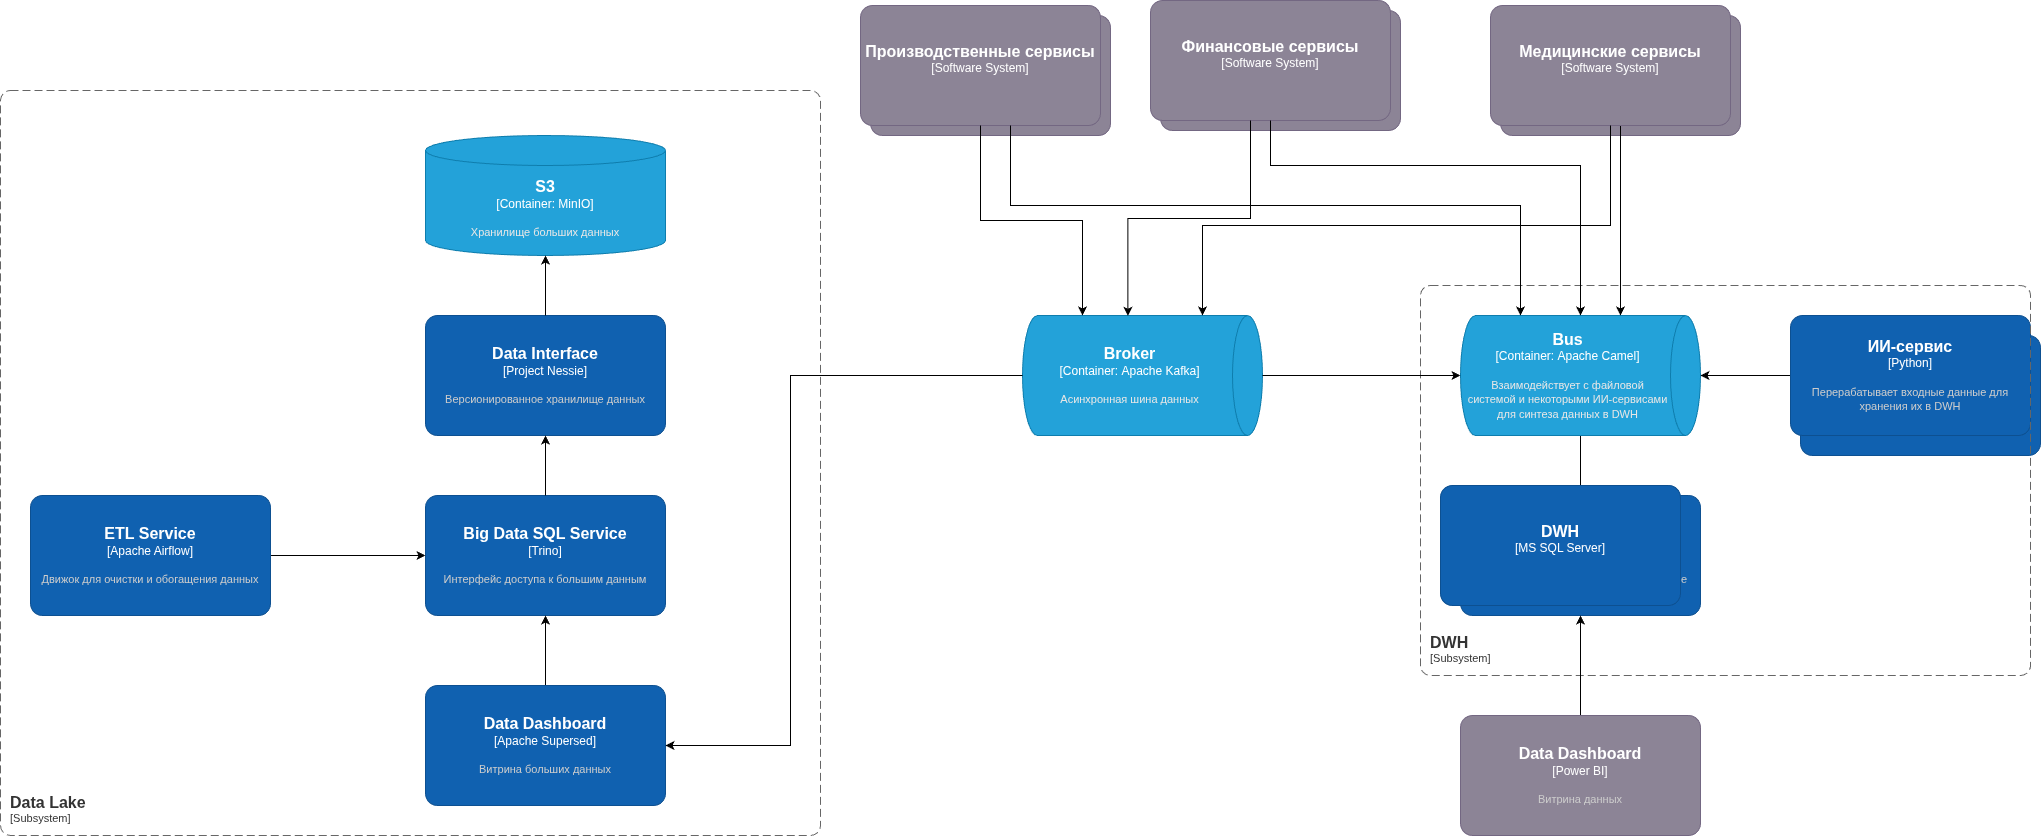
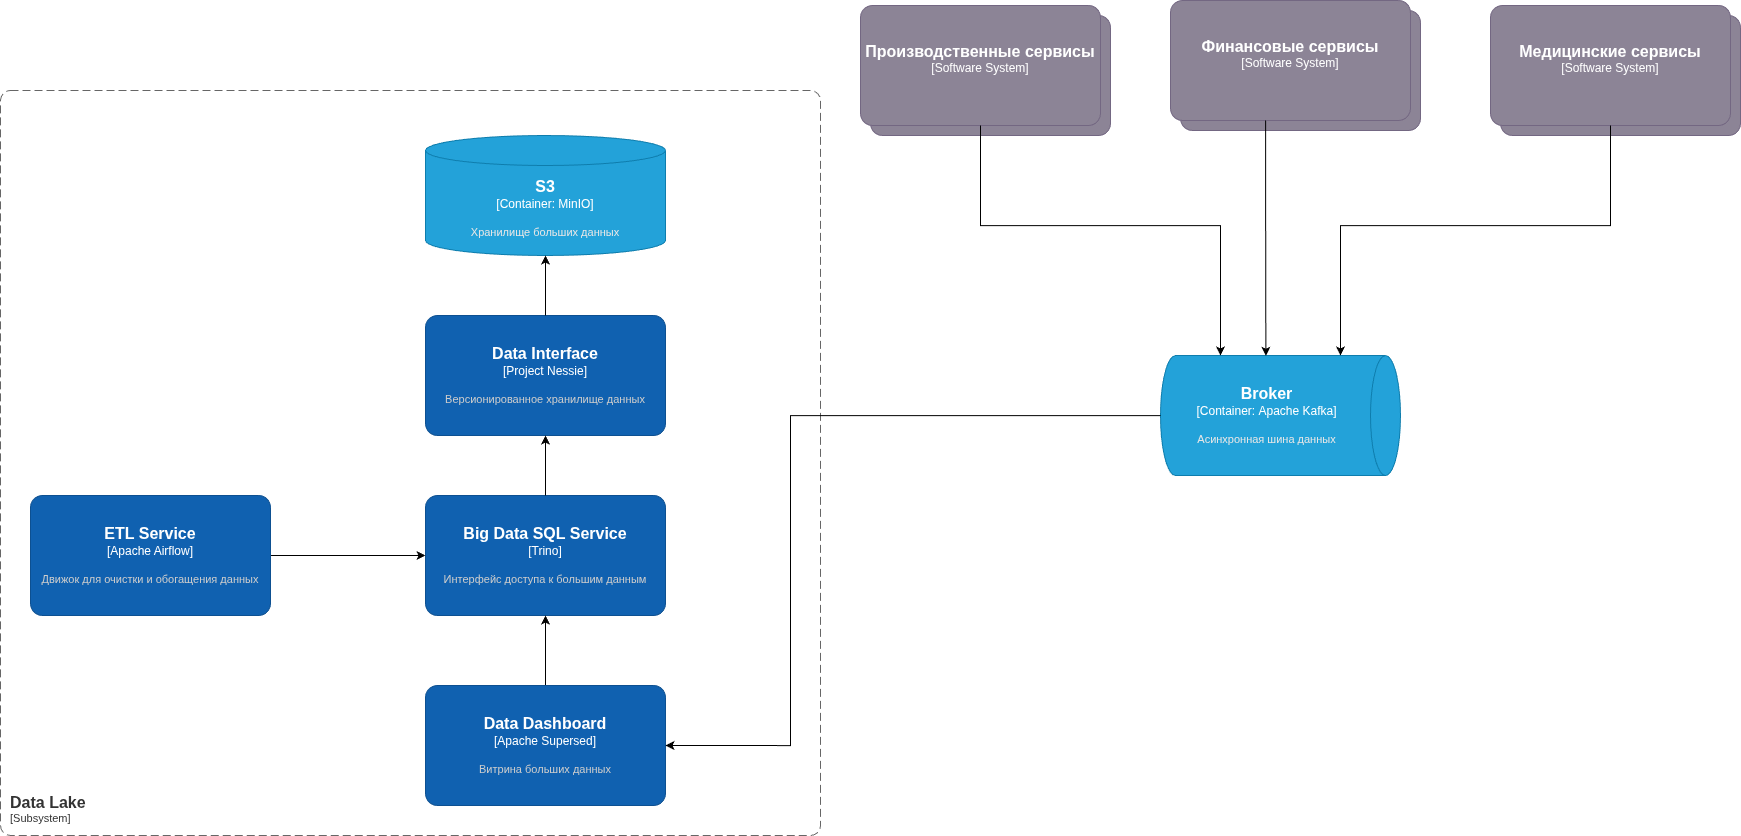
Проапдейтил Task3, убрал DWH

diff --git a/Task3Advanced/README.md b/Task3Advanced/README.md
@@ -6,7 +6,11 @@
 
 ### Data Warehouse
 
-На схеме изображена целевая архитектура в части обработки больших данных. Ранее в системе уже присутствовал DWH, построенный на базе MS SQL Server и Apache Camel, с которыми взаимодействуют различные ИИ-сревисы, написанные на Python, а также витрина данных на базе Power BI. Вероятно, нет большого смысла перерабатывать эту систему на новых технологиях, т.к. она и без того работает стабильно и удовлетворяет потребности бизнеса. Есть смысл только перенести DWH в облако, чтобы снизить затраты на инфраструктуру.
+Старый DWH уже не удовлетворяет потребностям бизнеса по производительности, и поэтому будет постепенно заменен новыми технологиями и выведен из эксплуатации.
+
+- Исторические данные (архив) следует перенести в Data Lake (бронзовый слой) в исходном виде
+- Бизнес-логику и трансформации данных переписать постепенно в Airflow
+- Отчёты перевести на витрины в золотом слое Trino
 
 ### Data Lake
 
@@ -20,7 +24,9 @@
 
 Очистка и обогащение данных будет выполняться с помощью Apache Airflow. Он будет использоваться для выполнения ETL-процессов, преобразующих данные по схеме медальёнов (бронзовый, серебрянный, золотой слой данных).
 
-Предлагается сделать единую точку входа данных на базе Apache Kafka. При этом старые сервисы, работающие с Apache Camel могут продолжить работу с этой шиной.
+Предлагается сделать единую точку входа данных на базе Apache Kafka.
+
+
 
 
 ## Карта рисков трансформации
